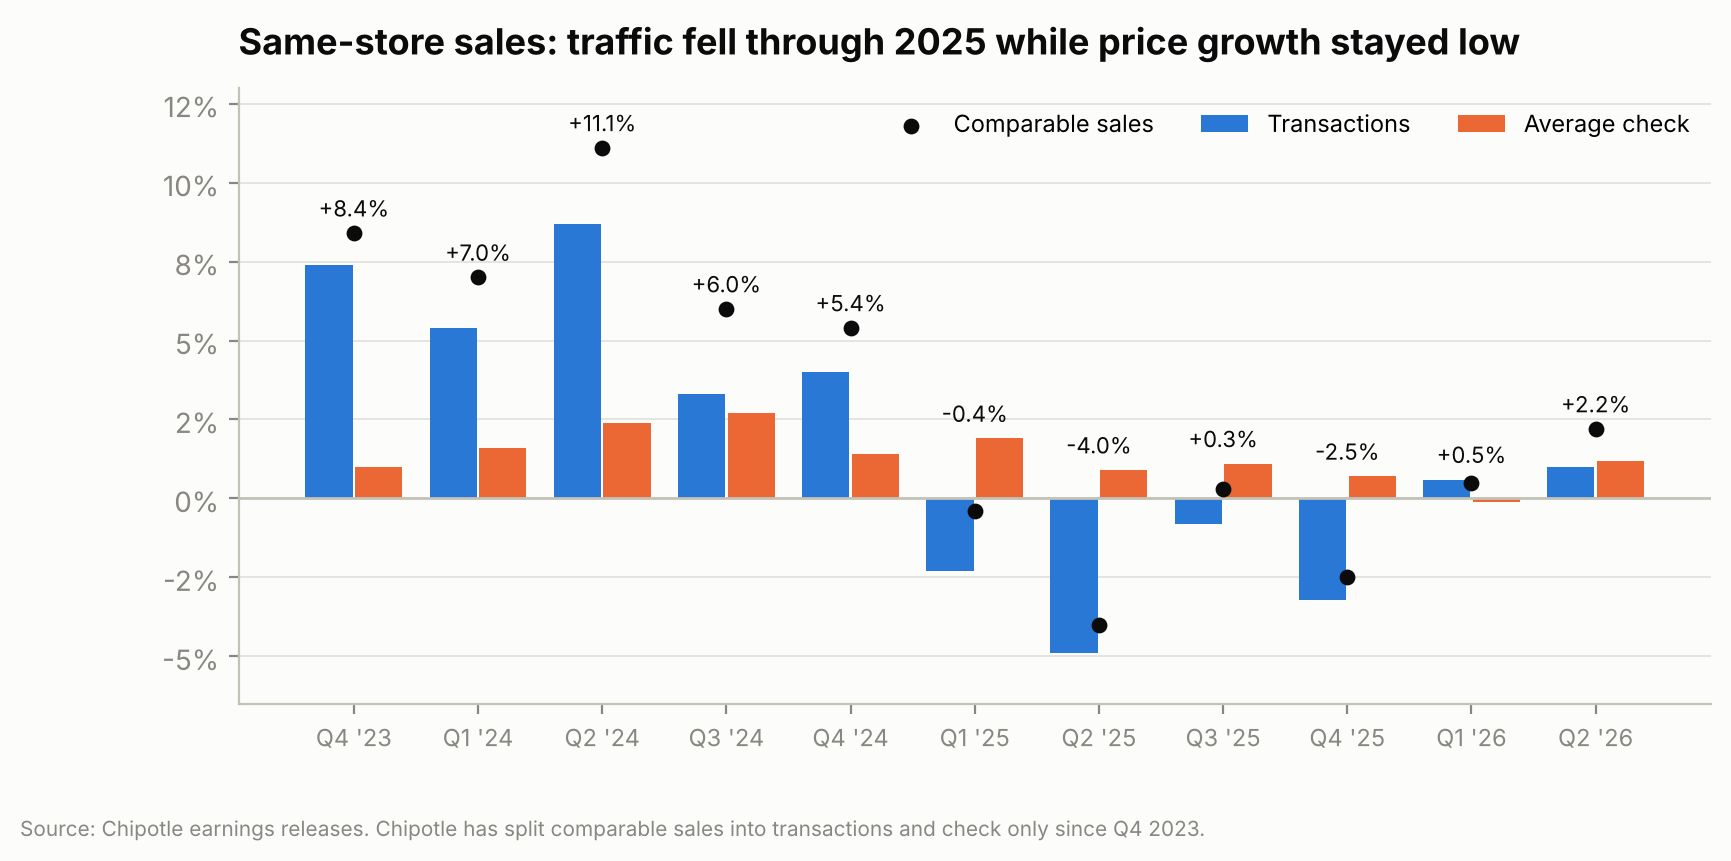
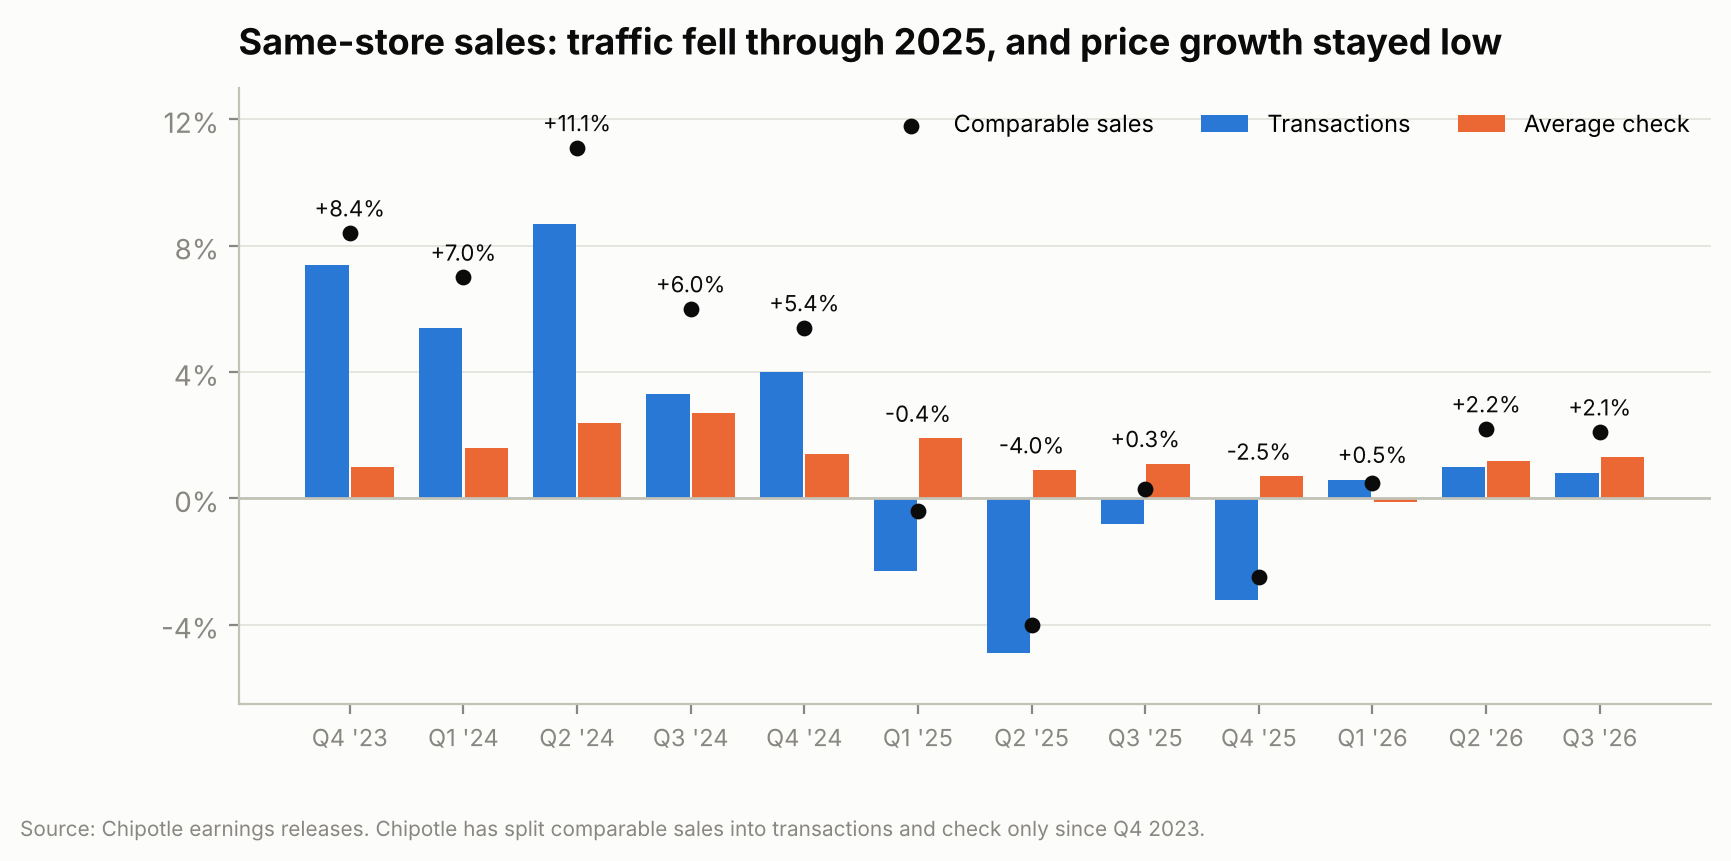
Update charts and README for the reforecast; fix traffic chart axis labels

diff --git a/src/make_tableau_data.py b/src/make_tableau_data.py
@@ -30,7 +30,7 @@ def margin(q):
     return 1 - (r.food_bev_packaging + r.labor + r.occupancy + r.other_operating) / r.revenue
 
 
-# 1. quarterly series: actuals plus each forecast scenario (joined at Q2 2026 so the lines connect)
+# 1. quarterly series: actuals plus each forecast scenario (joined at the last actual so the lines connect)
 rows = []
 for q in pnl.index:
     rows.append({"quarter": label(q), "series": "Actual", "restaurant_margin": margin(q),
@@ -76,9 +76,14 @@ pd.DataFrame(pr).to_csv(TAB / "peers.csv", index=False)
 # 6. Q3 scorecard (display strings, so the table needs no number formatting)
 shown = [("1 Comparable sales", f"{lock['comps']:+.1%}"), ("2 Revenue", f"${lock['rev2'] / 1000:,.0f}M"),
          ("3 Restaurant-level margin", f"{lock['rlm']:.1%}"), ("4 Diluted EPS", f"${lock['eps']:.2f}")]
+actual = {}
+var_file = OUT / "q3_2026_variance.csv"
+if var_file.exists():
+    v = pd.read_csv(var_file).set_index("key")["actual"]
+    actual = {"1": f"{v['comps']:+.1%}", "2": f"${v['rev2'] / 1000:,.0f}M", "3": f"{v['rlm']:.1%}", "4": f"${v['eps']:.2f}"}
 sc = []
 for line, value in shown:
     sc.append({"line": line[2:], "order": line[0], "column": "My forecast", "shown": value})
-    sc.append({"line": line[2:], "order": line[0], "column": "Reported", "shown": "Oct 28"})
+    sc.append({"line": line[2:], "order": line[0], "column": "Reported", "shown": actual.get(line[0], "Oct 28")})
 pd.DataFrame(sc).to_csv(TAB / "q3_scorecard.csv", index=False)
 print("wrote", sorted(p.name for p in TAB.glob("*.csv")))

diff --git a/src/make_charts.py b/src/make_charts.py
@@ -147,11 +147,12 @@ for i, v in zip(xs, comps):
                 xytext=(0, 6), textcoords="offset points", ha="center", fontsize=8, color=INK)
 ax.axhline(0, color=AXIS, lw=1)
 ax.set_xticks(list(xs), [qlab(q) for q in sq], fontsize=8.5)
+ax.set_yticks(range(-4, 13, 4))
 ax.yaxis.set_major_formatter(lambda v, _: f"{v:.0f}%")
 ax.set_ylim(-6.5, 13)
 ax.grid(axis="x", visible=False)
 ax.legend(loc="upper right", frameon=False, fontsize=8.5, ncol=3)
-ax.set_title("Same-store sales: traffic fell through 2025 while price growth stayed low", pad=12)
+ax.set_title("Same-store sales: traffic fell through 2025, and price growth stayed low", pad=12)
 finish(fig, "traffic_vs_check.png", "Source: Chipotle earnings releases. Chipotle has split comparable sales into "
        "transactions and check only since Q4 2023.")
 
@@ -174,6 +175,6 @@ for ax, col, ttl in [(axes[0], "growth", "Revenue growth, last 12 months"),
     lo = min(0, d[col].min()) - 4
     ax.set_xlim(lo, d[col].max() + 8)
 fig.tight_layout()
-finish(fig, "peers.png", "Source: SEC XBRL filings, LTM to mid-2026. Margin rebuilt as revenue less food, labor, "
+finish(fig, "peers.png", "Source: SEC XBRL filings, LTM to mid-2026 (Chipotle to Sep 2026). Margin rebuilt as revenue less food, labor, "
        "occupancy and other restaurant costs. Shake Shack's margin can't be rebuilt from its tagged data, and its "
        "LTM includes a 53rd week.")

diff --git a/run_all.py b/run_all.py
@@ -7,7 +7,7 @@ import subprocess
 import sys
 
 steps = ["src/extract_cmg.py", "src/extract_peers.py", "src/check_data.py", "src/run_model.py",
-         "src/make_charts.py", "src/make_tableau_data.py"]
+         "src/baseline_forecast.py", "src/score_forecast.py", "src/make_charts.py", "src/make_tableau_data.py"]
 if "--download" in sys.argv:
     steps.insert(0, "src/fetch_data.py")
 

diff --git a/README.md b/README.md
@@ -12,7 +12,8 @@ I made a forecast for Q3 2026 on October 15 and published it on
 on October 16, twelve days before Chipotle reported on October 28. The
 dashboard's publish date is the record of that; this repo went up after the
 results. Restaurant-level margin came in at 23.3% against my 23.4%, and EPS at
-$0.27, as forecast.
+$0.27, as forecast. After the results I rolled the model forward to a new
+forecast for Q4 2026 and 2027.
 
 This is an independent analysis of public SEC filings. I'm not affiliated with
 Chipotle, and nothing here is investment advice.
@@ -24,7 +25,7 @@ Chipotle, and nothing here is investment advice.
 - **Q3 variance write-up:** [`docs/q3_2026_variance.md`](docs/q3_2026_variance.md)
 - **KPI tree and definitions:** [`docs/kpi_tree.md`](docs/kpi_tree.md)
 - **Dashboard:** [Tableau Public](https://public.tableau.com/app/profile/likhit.vardhan.chiliveri/viz/ChipotleFPA-2027MarginBudgetandQ32026Forecast/ChipotleFPA)
-  (workbook in [`tableau/`](tableau/))
+  (as published on Oct 16, before the results; workbook in [`tableau/`](tableau/))
 
 [![Tableau dashboard](images/dashboard.png)](https://public.tableau.com/app/profile/likhit.vardhan.chiliveri/viz/ChipotleFPA-2027MarginBudgetandQ32026Forecast/ChipotleFPA)
 
@@ -51,13 +52,37 @@ quarters. It was the most accurate on both revenue and margin:
 | Holt-Winters | -1.1% | 24 bps |
 | Seasonal naive | -2.1% | 117 bps |
 
+## Reforecast after Q3
+
+With Q3 in the actuals and management's Oct 28 guidance for Q4, the model now
+forecasts Q4 2026 to Q4 2027. The Oct 15 budget's outputs are kept in
+[`output/budget_oct15/`](output/budget_oct15/).
+
+| Base case | Oct 15 budget | Oct 30 reforecast |
+|---|---|---|
+| FY2026 restaurant-level margin | 23.6% | 23.4% |
+| FY2027 restaurant-level margin | 23.1% | 22.4% |
+| FY2027 comparable sales | +3.3% | +3.0% |
+| FY2026 diluted EPS | $1.09 | $1.05 |
+| FY2027 diluted EPS | $1.23 | $1.15 |
+
+About half of the 2027 drop is price. On the Q3 call management said pricing
+near 2% is "just not looking like" it will happen in 2027, so the Base case now
+has average check growth of 1.5% against 2.0% before (about -40 bps). The rest
+comes from starting higher on costs: Q3 other operating costs ran at 16.0% of
+sales, and the model builds each 2027 quarter off the same quarter of 2026.
+Management called a mid-24% margin the 2027 baseline, but that assumes pricing
+keeps up with cost inflation. My Base case doesn't, which is the main reason
+it sits about two points lower. The Upside case (2% check growth, lower cost
+inflation) reaches 23.9%.
+
 ## What I found
 
 **1. Margins have been falling for two years, and the Base case doesn't get
-them back in 2027.** Restaurant-level margin was 26.7% in 2024, 25.4% in 2025,
-and I have it at 23.6% for 2026 and 23.1% for 2027. The Upside case reaches
-24.9%; the Downside drops to 20.1%. EPS still grows in the Base case ($1.09 in
-2026 to $1.23 in 2027) because of new restaurants and buybacks.
+them back in 2027.** Restaurant-level margin was 26.7% in 2024 and 25.4% in
+2025. After Q3 I have it at 23.4% for 2026 and 22.4% for 2027. The Upside case
+reaches 23.9%; the Downside drops to 20.6%. EPS still grows in the Base case
+($1.05 in 2026 to $1.15 in 2027) because of new restaurants and buybacks.
 
 ![Restaurant-level margin by quarter](images/margin_trend.png)
 
@@ -67,25 +92,27 @@ costs took 93 bps of that and food took 75 bps.
 
 ![Margin bridge](images/margin_bridge.png)
 
-**3. The sales problem is traffic, and price hasn't made up for it.** Comparable
-transactions fell 2.3%, 4.9%, 0.8% and 3.2% across 2025. Average check grew
-only 0.7-1.9% a quarter, because Chipotle has kept pricing below the industry
-(restaurant prices nationally are up 3.5% in the last year).
+**3. The sales problem was traffic, and price hasn't made up for it.**
+Comparable transactions fell 2.3%, 4.9%, 0.8% and 3.2% across 2025. They have
+been positive for three quarters since (+0.6%, +1.0%, +0.8%), but average check
+grew only 0.7-1.9% a quarter, because Chipotle has kept pricing below the
+industry (restaurant prices nationally are up 3.5% in the last year) and
+promotions are eating into the price it does take.
 
 ![Transactions and average check](images/traffic_vs_check.png)
 
 **4. Price is the lever that matters most.** One more point of average check
-adds about 75 bps to 2027 margin. One more point of traffic adds 24 bps, food
+adds about 76 bps to 2027 margin. One more point of traffic adds 24 bps, food
 cost 1 point lower adds 29, wages 1 point lower add 25. Getting back to 2025's
-margin would take check growth of about 5.3% (the Base case has 2.0%) or about
-12% traffic growth. Price keeps paying off unless each point of it costs more
-than about three points of traffic.
+margin would take check growth of about 5.5% (the Base case has 1.5%) or more
+than 12% traffic growth. Price keeps paying off unless each point of it costs
+more than about three points of traffic.
 
 ![Margin effect of each lever](images/levers.png)
 
 **5. Chipotle's margin lead over CAVA is gone.** Over the last twelve months
-Chipotle's restaurant-level margin was 24.1% and CAVA's was 24.6%, with CAVA
-growing 27% against Chipotle's 7%.
+Chipotle's restaurant-level margin was 23.8% (to September) and CAVA's was
+24.6% (to July), with CAVA growing 27% against Chipotle's 8%.
 
 ![Peers](images/peers.png)
 
@@ -105,19 +132,19 @@ variable, so falling traffic pushes them up as a share of sales. The full map
 is in [`docs/kpi_tree.md`](docs/kpi_tree.md).
 
 Every forecast input sits on the `Assumptions` tab with the reason for the
-number next to it, mostly from management's July 29 call and from cost trends
+number next to it, mostly from management's Oct 28 call and from cost trends
 backed out of the filings. One cell switches between Base, Upside and Downside.
 
 | Tab | What's on it |
 |---|---|
 | Assumptions | Scenario switch and every input, with its reasoning |
 | Model | Quarterly drivers, restaurant P&L and EPS, Q1 2025 to Q4 2027 |
-| Q3_Forecast | Locked Q3 forecast, management guidance, actuals and variance |
+| Q3_Forecast | Locked Q3 forecast, management guidance, actuals, variance and reasons |
 | Margin_Bridge | Cost-line bridges for history and forecast |
 | Sensitivity | Margin by traffic, price, food and wage assumptions; lever ranking |
 | Scenarios | Base, Upside and Downside side by side |
 | Peers | Chipotle, CAVA, Sweetgreen, Shake Shack on one margin definition |
-| Hist | 22 quarters as filed, plus derived ratios and tie-outs |
+| Hist | 23 quarters as filed, plus derived ratios and tie-outs |
 | Checks | 14 checks; all must pass |
 
 ## Checking the numbers
@@ -147,9 +174,10 @@ src/
   score_forecast.py   Q3 forecast vs actual
 data/processed/       tidy CSVs used by the model
 model/                the Excel model
-output/               locked Q3 forecast, quarterly model output, scenarios, levers
-tableau/              the Tableau workbook
-docs/                 memo, forecast note, KPI tree, data notes
+output/               locked Q3 forecast, variance, model output, scenarios, levers
+output/budget_oct15/  the Oct 15 budget's outputs, before the reforecast
+tableau/              the Tableau workbook (as published Oct 16)
+docs/                 memo, forecast note, variance write-up, KPI tree, data notes
 images/               charts
 ```
 
